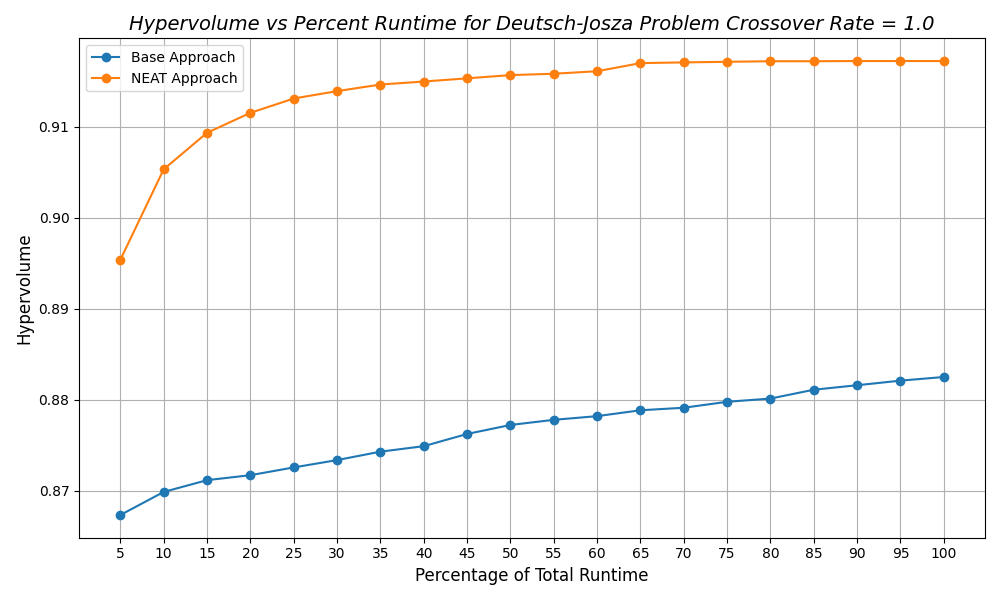
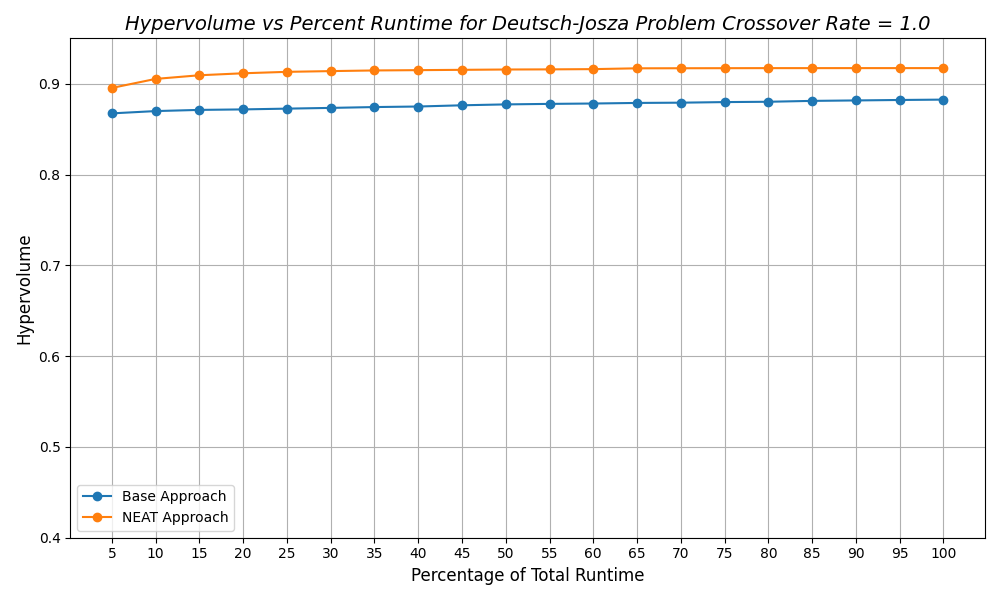
parse exp 2

diff --git a/NEATGPoQA/statistical_evaluation/parse_experiments.py b/NEATGPoQA/statistical_evaluation/parse_experiments.py
@@ -142,14 +142,18 @@ def average_metrics_by_percentage(runs, percentages):
     averaged_df.index.name = 'Percentage'
     return averaged_df
 
-def plot_multiple_metrics_vs_percentage(averaged_results_list, approach_names, metric_name, title, filename=None):
+def plot_multiple_metrics_vs_percentage(averaged_results_list, approach_names, metric_name, title, filename=None, ymin=None, ymax=None):
     """
     Plots the specified metric against the percentages of total runtime for multiple averaged_results.
 
     Args:
         averaged_results_list (list of dicts): List containing multiple dictionaries of averaged results.
+        approach_names (list of str): Names of the approaches corresponding to the averaged results.
         metric_name (str): The name of the metric to plot (e.g., "Hypervolume", "Min error").
-        filenames (list of str or str, optional): If provided, saves each plot to the corresponding file(s).
+        title (str): The title of the plot.
+        filename (str, optional): If provided, saves the plot to the specified file.
+        ymin (float, optional): The lower bound of the y-axis.
+        ymax (float, optional): The upper bound of the y-axis.
 
     Returns:
         None: Displays or saves the plot.
@@ -163,7 +167,7 @@ def plot_multiple_metrics_vs_percentage(averaged_results_list, approach_names, m
         if metric_name not in metrics:
             raise ValueError(f"Metric '{metric_name}' not found in the averaged results.")
 
-        percentages = averaged_results[metrics[0]].index   
+        percentages = averaged_results[metrics[0]].index
 
         # Extract the metric values for each percentage
         metric_values = [averaged_results[metric_name][perc] for perc in percentages]
@@ -176,20 +180,25 @@ def plot_multiple_metrics_vs_percentage(averaged_results_list, approach_names, m
     plt.xlabel('Percentage of Total Runtime', fontsize=12)
     plt.ylabel(metric_name, fontsize=12)
     plt.title(title, fontsize=14, fontstyle='italic')
-    
+
+    # Set static y-axis limits if provided
+    if ymin is not None or ymax is not None:
+        plt.ylim(ymin, ymax)
+
     # Show the grid and plot
     plt.grid(True)
     plt.xticks(percentages)  # Ensure that all percentages are displayed on the x-axis
     plt.legend()
     plt.tight_layout()
 
-    # If filenames are provided, save the plot(s) as separate files
+    # If filename is provided, save the plot as a file
     if filename:
         plt.savefig(filename)
         print(f"Plot saved as {filename}")
     else:
-        # Display the plot if no filenames are provided
+        # Display the plot if no filename is provided
         plt.show()
+
 
 def rename_folders(base_folder):
     terms_to_replace = ["deutsch_josza", "full_adder"]
@@ -229,7 +238,6 @@ all_base_runs = {k: v for k, v in experiment_data.items() if k[0] == "base"}
 
 percentages = [5, 10, 15, 20, 25, 30, 35, 40, 45, 50, 55 ,60, 65, 70, 75, 80, 85, 90, 95, 100]
 
-approach_names = ["Base Approach", "NEAT Approach"]
 
 test_problems = {
     "deutsch-josza": "Deutsch-Josza Problem",
@@ -243,6 +251,7 @@ mut_rates_neat = [0.55, 0.7, 0.85]
 pop_sizes = [500, 1000, 2000, 5000]
 
 for test_problem_key, test_problem_name in test_problems.items():
+    approach_names = ["Base Approach", "NEAT Approach"]
     for cross_rate in cross_rates:
         neat_runs = {k: v for k, v in all_neat_runs.items() if k[1] == test_problem_key and k[2] == cross_rate}
         base_runs = {k: v for k, v in all_base_runs.items() if k[1] == test_problem_key and k[2] == cross_rate}
@@ -252,7 +261,7 @@ for test_problem_key, test_problem_name in test_problems.items():
 
         metrics_list = [averaged_metrics_base, averaged_metrics_neat]
 
-        plot_multiple_metrics_vs_percentage(metrics_list, approach_names, "Hypervolume", f"Hypervolume vs Percent Runtime for {test_problem_name} Crossover Rate = {cross_rate}", filename=f"plots/{test_problem_key}/Hypervolume_cross_rate_{cross_rate}.png")
+        plot_multiple_metrics_vs_percentage(metrics_list, approach_names, "Hypervolume", f"Hypervolume vs Percent Runtime for {test_problem_name} Crossover Rate = {cross_rate}", filename=f"plots/{test_problem_key}/Hypervolume_cross_rate_{cross_rate}.png", ymin=0.4, ymax=0.95)
     
     for pop_size in pop_sizes:
         neat_runs = {k: v for k, v in all_neat_runs.items() if k[1] == test_problem_key and k[4] == pop_size}
@@ -263,7 +272,7 @@ for test_problem_key, test_problem_name in test_problems.items():
 
         metrics_list = [averaged_metrics_base, averaged_metrics_neat]
 
-        plot_multiple_metrics_vs_percentage(metrics_list, approach_names, "Hypervolume", f"Hypervolume vs Percent Runtime for {test_problem_name} Population Size = {pop_size}", filename=f"plots/{test_problem_key}/Hypervolume_pop_size_{pop_size}.png")
+        plot_multiple_metrics_vs_percentage(metrics_list, approach_names, "Hypervolume", f"Hypervolume vs Percent Runtime for {test_problem_name} Population Size = {pop_size}", filename=f"plots/{test_problem_key}/Hypervolume_pop_size_{pop_size}.png", ymin=0.4, ymax=0.95)
 
     metrics_list = []
     approach_names = []
@@ -273,7 +282,7 @@ for test_problem_key, test_problem_name in test_problems.items():
         metrics_list.append(averaged_metrics_base)
         approach_names.append(f"Mutation Rate = {mut_rate}")
     
-    plot_multiple_metrics_vs_percentage(metrics_list, approach_names, "Hypervolume", f"Hypervolume vs Percent Runtime for {test_problem_name} Base Approach", filename=f"plots/{test_problem_key}/Hypervolume_base_mut_rates.png")
+    plot_multiple_metrics_vs_percentage(metrics_list, approach_names, "Hypervolume", f"Hypervolume vs Percent Runtime for {test_problem_name} Base Approach", filename=f"plots/{test_problem_key}/Hypervolume_base_mut_rates.png", ymin=0.4, ymax=0.95)
 
     metrics_list = []
     approach_names = []
@@ -283,4 +292,4 @@ for test_problem_key, test_problem_name in test_problems.items():
         metrics_list.append(averaged_metrics_neat)
         approach_names.append(f"Mutation Rate = {mut_rate}")
     
-    plot_multiple_metrics_vs_percentage(metrics_list, approach_names, "Hypervolume", f"Hypervolume vs Percent Runtime for {test_problem_name} NEAT Approach", filename=f"plots/{test_problem_key}/Hypervolume_neat_mut_rates.png")
+    plot_multiple_metrics_vs_percentage(metrics_list, approach_names, "Hypervolume", f"Hypervolume vs Percent Runtime for {test_problem_name} NEAT Approach", filename=f"plots/{test_problem_key}/Hypervolume_neat_mut_rates.png", ymin=0.4, ymax=0.95)
